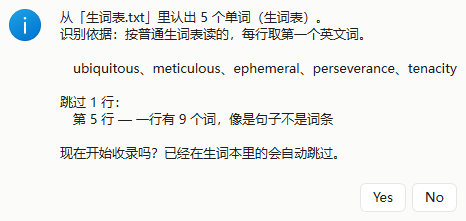
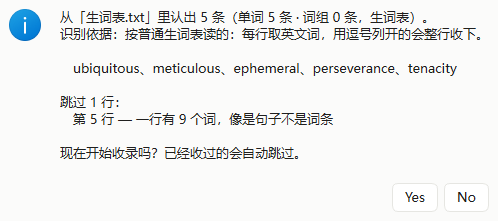
预览图：设置页去掉本机路径，本地词库那行改为 76.9 万词
截图脚本在出图前把两处绝对路径换成示例路径：窗口背景指向本次渲染用的临时目录，
本地词库指向开发机仓库。预览图要进 README，原样保留等于公开本机目录结构。
只改显示文字，预览条仍按真实文件渲染。

diff --git a/scripts/screenshot.py b/scripts/screenshot.py
@@ -98,6 +98,39 @@ def _sample_background(path: Path) -> None:
     image.save(str(path))
 
 
+def _sanitize_settings_paths(dialog) -> None:
+    """把设置页里的本机绝对路径换成示例路径。
+
+    设置页有两处直接显示绝对路径。窗口背景的输入框指向本次渲染用的临时目录
+    （`%TEMP%\\quill_shot_xxx\\wallpaper.png`），「本地词库」那行的位置指向
+    开发机上的仓库。预览图要进 README，这两处等于把本机的目录结构一并公开。
+
+    只改显示文字，不改取值：背景输入框在截图那一刻才换字，预览条已经按真实
+    文件算好，因此图仍是真图。
+    """
+    from PySide6.QtWidgets import QLabel
+
+    dialog.background.blockSignals(True)
+    dialog.background.setText(r"C:\Users\you\Pictures\wallpaper.png")
+    dialog.background.blockSignals(False)
+
+    # 下拉框停在占位项上时，画面会出现「背景已填、最近使用却写着没用过」的
+    # 自相矛盾。选中那条记录，文案才与输入框对得上。
+    if dialog.bg_recent.count() > 1:
+        dialog.bg_recent.blockSignals(True)
+        dialog.bg_recent.setCurrentIndex(1)
+        dialog.bg_recent.blockSignals(False)
+
+    for label in dialog.findChildren(QLabel):
+        text = label.text()
+        if not text.startswith("本地词库："):
+            continue
+        head = text.split("\n", 1)[0]
+        label.setText(
+            head + "\n位置：" + r"C:\Program Files\Quill\assets\offline_dict.db"
+        )
+
+
 def main() -> int:
     out = Path(sys.argv[1]) if len(sys.argv) > 1 else (
         Path(__file__).resolve().parents[1] / "preview.png"
@@ -207,6 +240,7 @@ def main() -> int:
             )
             dialog.setAttribute(Qt.WidgetAttribute.WA_DontShowOnScreen, True)
             dialog.show()
+            _sanitize_settings_paths(dialog)
             dialog._on_save()
             QTimer.singleShot(180, lambda: (dialog.grab().save(str(out)), app.quit()))
             return
